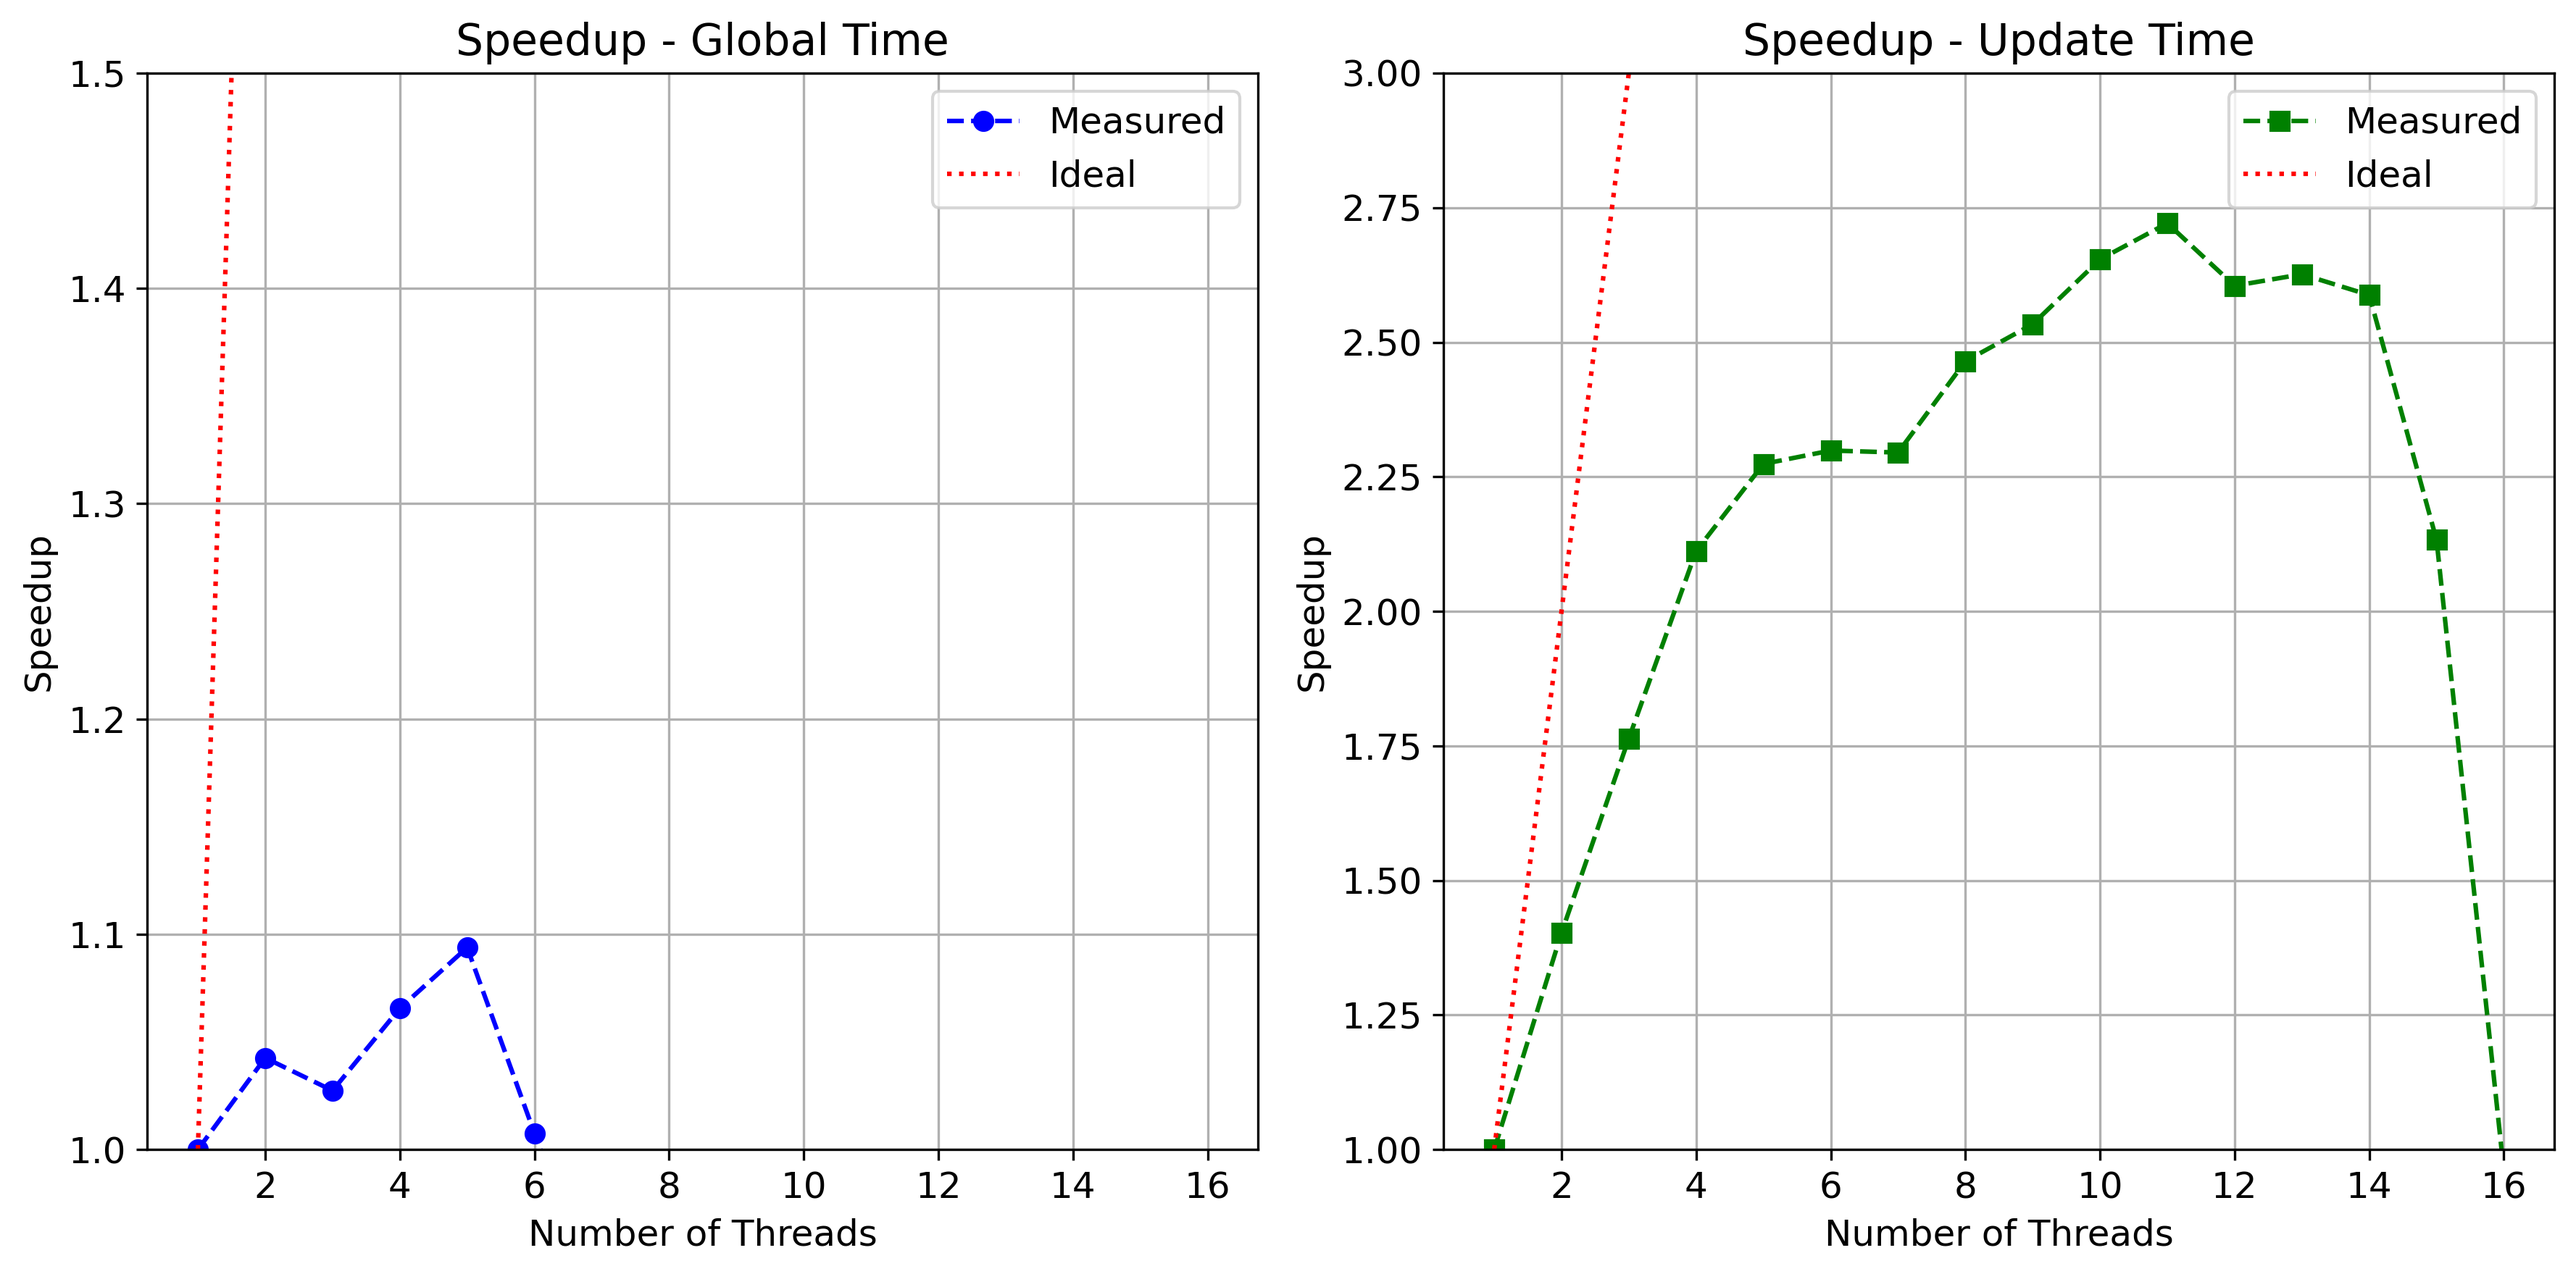
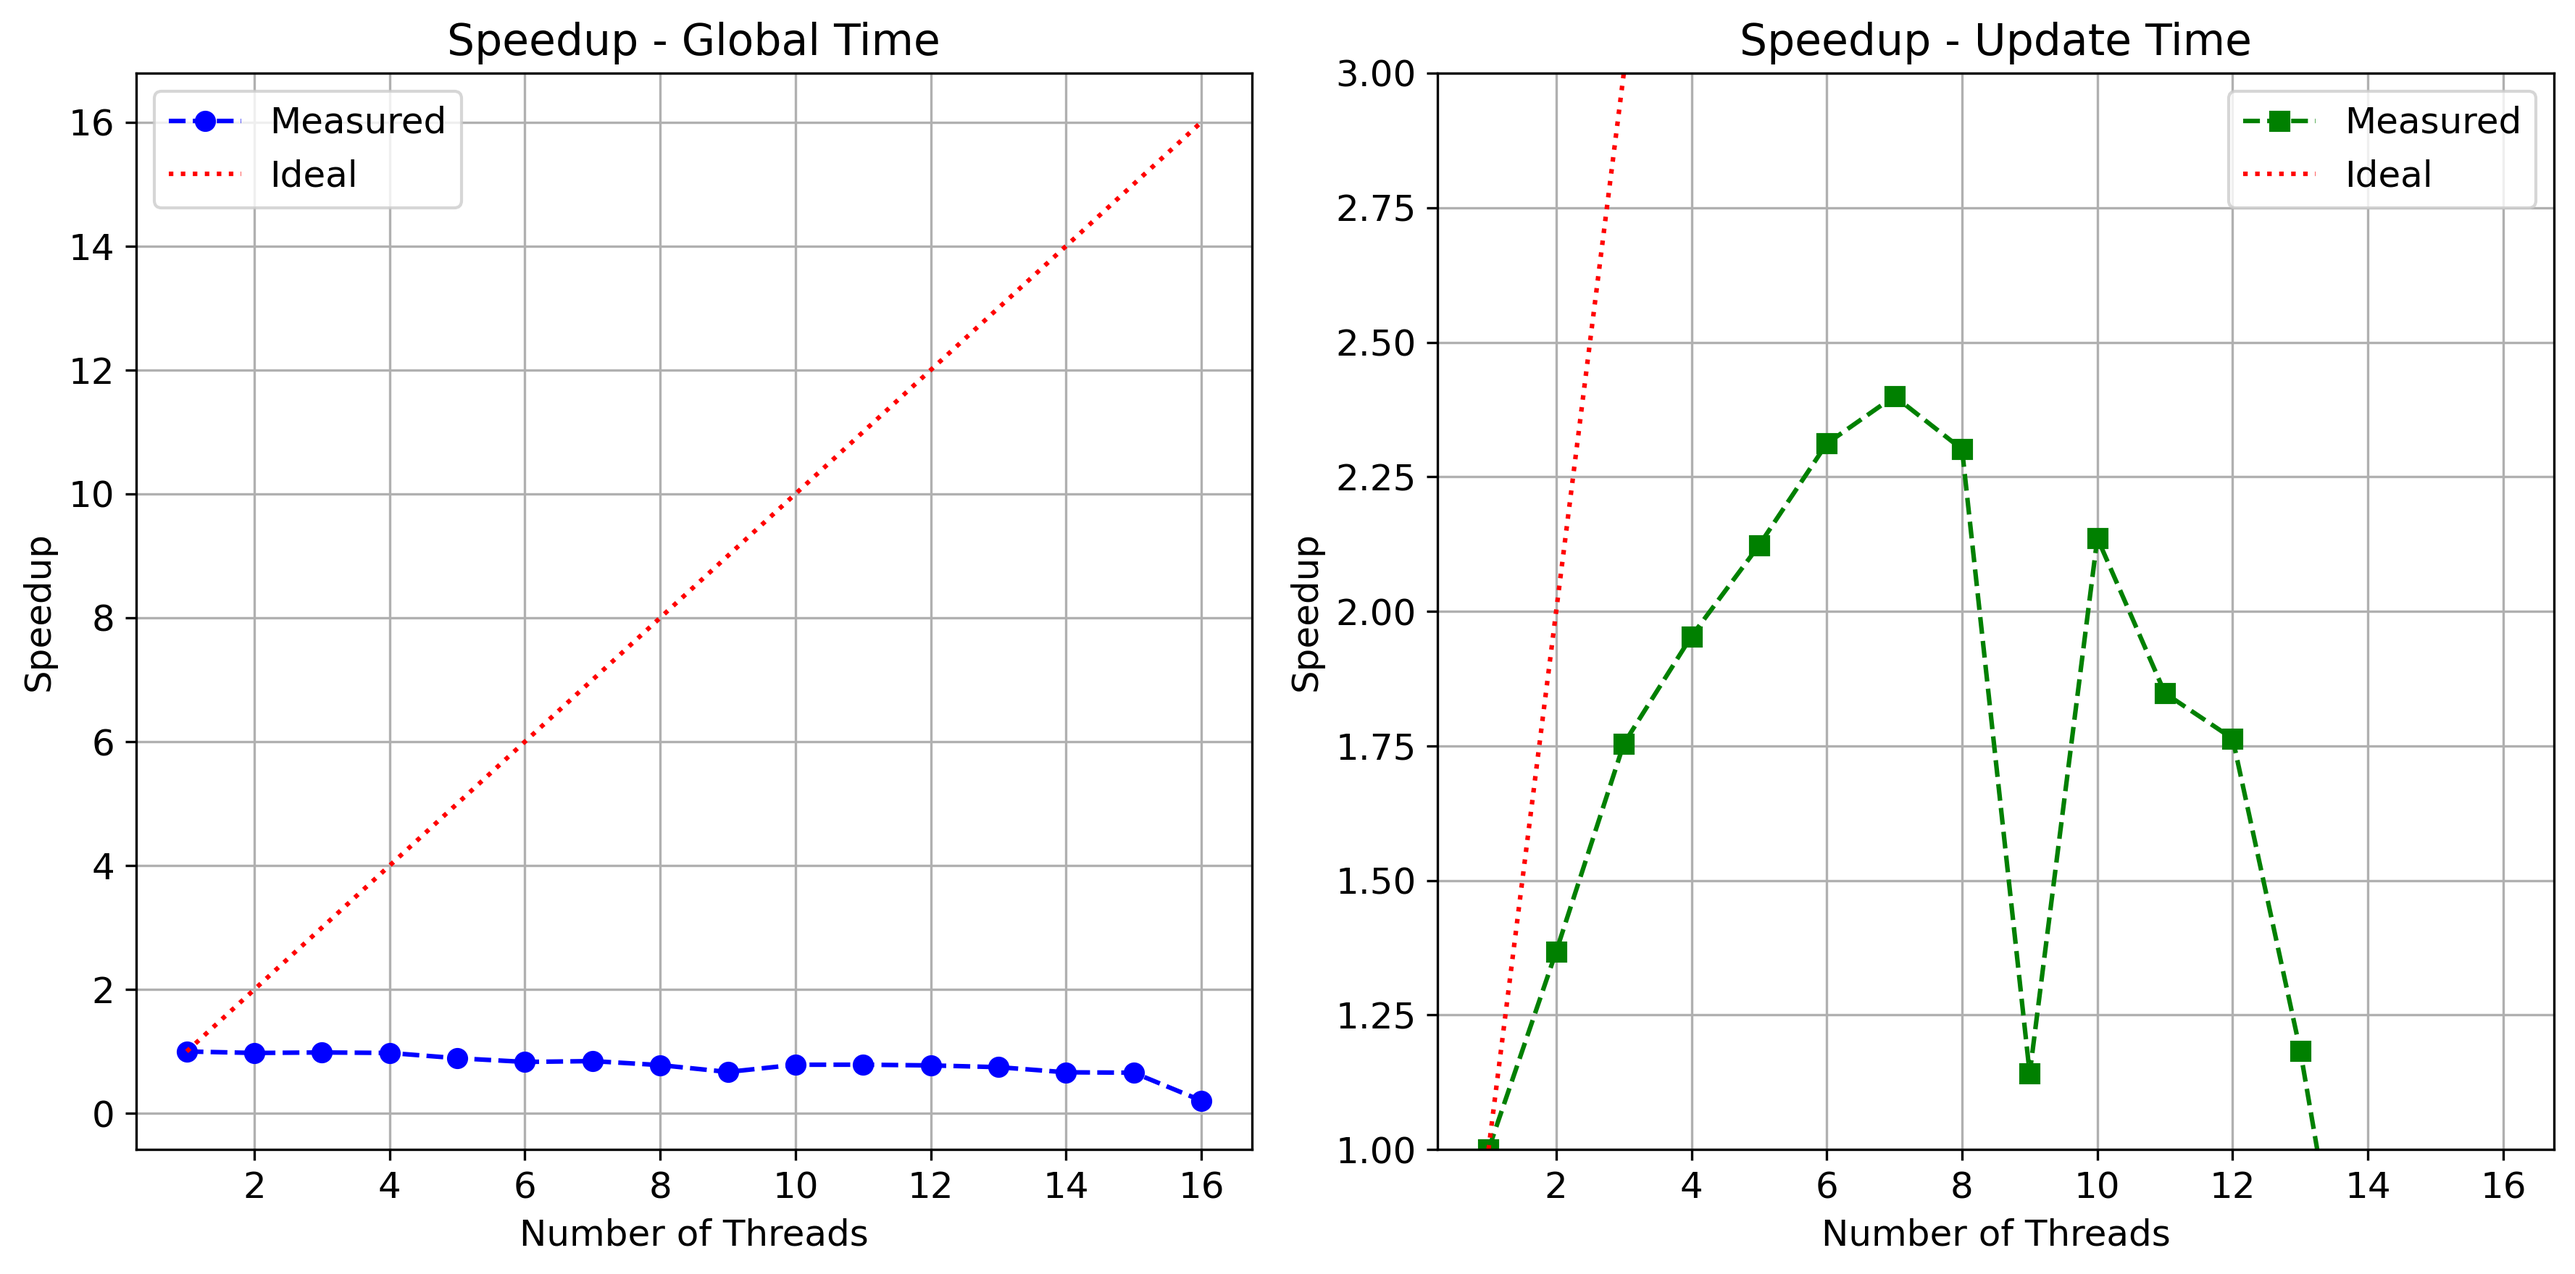
fix: color works propperly for n>63

diff --git a/projet/src/simulation.cpp b/projet/src/simulation.cpp
@@ -220,24 +220,20 @@ int main( int nargs, char* args[] ) {
     MPI_Comm_rank(MPI_COMM_WORLD, &rank);
 
     std::shared_ptr<Displayer> displayer = nullptr;
-    if (rank == 0) displayer = Displayer::init_instance( params.discretization, params.discretization );
-    //auto simu = Model( params.length, params.discretization, params.wind, params.start);
+    if (rank == 0) displayer = Displayer::init_instance(params.discretization, params.discretization);
 
-    int maps_sizes = params.discretization * params.discretization;
+    uint32_t maps_sizes = params.discretization * params.discretization;
     float time_update = 0;
     float time_for = 0;
     double time_affichage = 0;
     int n_iterations = 0;
 
     MPI_Request send_request1, send_request2, send_request3;
-    MPI_Request recv_request1, recv_request2, recv_request3;
+    //MPI_Request recv_request1, recv_request2, recv_request3;
     bool isRunning = true;
 
     std::unique_ptr<Model> simu = nullptr;
-    if (rank == 1) {
-        simu = std::make_unique<Model>(params.length, params.discretization, params.wind, params.start);
-        isRunning = simu->update(&time_update, &time_for);
-    }
+    if (rank == 1) simu = std::make_unique<Model>(params.length, params.discretization, params.wind, params.start);
 
     SDL_Event event;
     double global_start = omp_get_wtime();
@@ -245,9 +241,11 @@ int main( int nargs, char* args[] ) {
     {
         n_iterations++;  
         if(rank == 1) {
+            std::vector<std::uint8_t> b_vegetal_map = simu->vegetal_map();
+            std::vector<std::uint8_t> b_fire_map = simu->fire_map();
             MPI_Isend(&isRunning, 1,  MPI_CXX_BOOL, 0, 101, MPI_COMM_WORLD, &send_request1);
-            MPI_Isend(simu->vegetal_map().data(), maps_sizes, MPI_UINT8_T, 0, 102, MPI_COMM_WORLD, &send_request2);
-            MPI_Isend(simu->fire_map().data(), maps_sizes, MPI_UINT8_T, 0, 103, MPI_COMM_WORLD, &send_request3);
+            MPI_Isend(b_vegetal_map.data(), maps_sizes, MPI_UINT8_T, 0, 102, MPI_COMM_WORLD, &send_request2);
+            MPI_Isend(b_fire_map.data(), maps_sizes, MPI_UINT8_T, 0, 103, MPI_COMM_WORLD, &send_request3);
             isRunning = simu->update(&time_update, &time_for);
             int ready1 = 0, ready2 = 0, ready3 = 0;
             while (!ready1 || !ready2 || !ready3) {
@@ -260,13 +258,9 @@ int main( int nargs, char* args[] ) {
             std::vector<std::uint8_t> m_vegetal_map(maps_sizes);
             std::vector<std::uint8_t> m_fire_map(maps_sizes);
             // Receive isRunning (bool) from rank 1
-            MPI_Irecv(&isRunning, 1, MPI_CXX_BOOL, 1, 101, MPI_COMM_WORLD, &recv_request1);
-            MPI_Irecv(m_vegetal_map.data(), maps_sizes, MPI_UINT8_T, 1, 102, MPI_COMM_WORLD, &recv_request2);
-            MPI_Irecv(m_fire_map.data(), maps_sizes, MPI_UINT8_T, 1, 103, MPI_COMM_WORLD, &recv_request3) ;
-            // Wait for all receives to complete
-            MPI_Wait(&recv_request1, MPI_STATUS_IGNORE);
-            MPI_Wait(&recv_request2, MPI_STATUS_IGNORE);
-            MPI_Wait(&recv_request3, MPI_STATUS_IGNORE);
+            MPI_Recv(&isRunning, 1, MPI_CXX_BOOL, 1, 101, MPI_COMM_WORLD, MPI_STATUS_IGNORE);
+            MPI_Recv(m_vegetal_map.data(), maps_sizes, MPI_UINT8_T, 1, 102, MPI_COMM_WORLD, MPI_STATUS_IGNORE);
+            MPI_Recv(m_fire_map.data(), maps_sizes, MPI_UINT8_T, 1, 103, MPI_COMM_WORLD, MPI_STATUS_IGNORE) ;
             double start_affichage = omp_get_wtime();
             displayer->update(m_vegetal_map, m_fire_map);
             time_affichage += omp_get_wtime() - start_affichage; 
@@ -290,7 +284,7 @@ int main( int nargs, char* args[] ) {
     }
     if(rank == 0) std::cout << "n_iterations " << n_iterations << std::endl;
     std::cout << std::fixed;
-    if(rank != 0) std::cout << std::setprecision(10) << "avg_time_update " << time_update / n_iterations << std::endl;
+    if(rank == 1) std::cout << std::setprecision(10) << "avg_time_update " << time_update / n_iterations << std::endl;
     if(rank == 0) std::cout << std::setprecision(10) << "avg_time_affichage " << time_affichage / n_iterations << std::endl;
     if(rank == 0) SDL_Quit();
     MPI_Finalize();

diff --git a/projet/src/display.cpp b/projet/src/display.cpp
@@ -1,6 +1,7 @@
 #include <cassert>
 #include <stdexcept>
 #include <string> 
+#include <iostream>
 #include "display.hpp"
 
 using namespace std::string_literals;
@@ -61,9 +62,9 @@ Displayer::update( std::vector<std::uint8_t> const & vegetation_global_map,
     SDL_SetRenderDrawColor(m_pt_renderer, 0,0,0, 255);
     SDL_RenderClear(m_pt_renderer);
     for (int i = 0; i < h; ++i )
-      for (int j =  0; j < w; ++j )
+      for (int j = 0; j < w; ++j )
       {
-        SDL_SetRenderDrawColor(m_pt_renderer, fire_global_map[j + w*i], vegetation_global_map[j + w*i], 0, 255);
+        SDL_SetRenderDrawColor(m_pt_renderer, (int) fire_global_map[j + w*i], (int) vegetation_global_map[j + w*i], 0, 255);
         SDL_RenderDrawPoint(m_pt_renderer, j, h-i-1); 
       }
     SDL_RenderPresent(m_pt_renderer);

diff --git a/projet/src/graph.py b/projet/src/graph.py
@@ -29,7 +29,7 @@ ax1.plot(df['ENV_VALUE'], df['ENV_VALUE'],
 ax1.set_title('Speedup - Global Time')
 ax1.set_xlabel('Number of Threads')
 ax1.set_ylabel('Speedup')
-ax1.set_ylim(1,1.5)
+#ax1.set_ylim(1,1.5)
 ax1.legend()
 ax1.grid(True)
 
